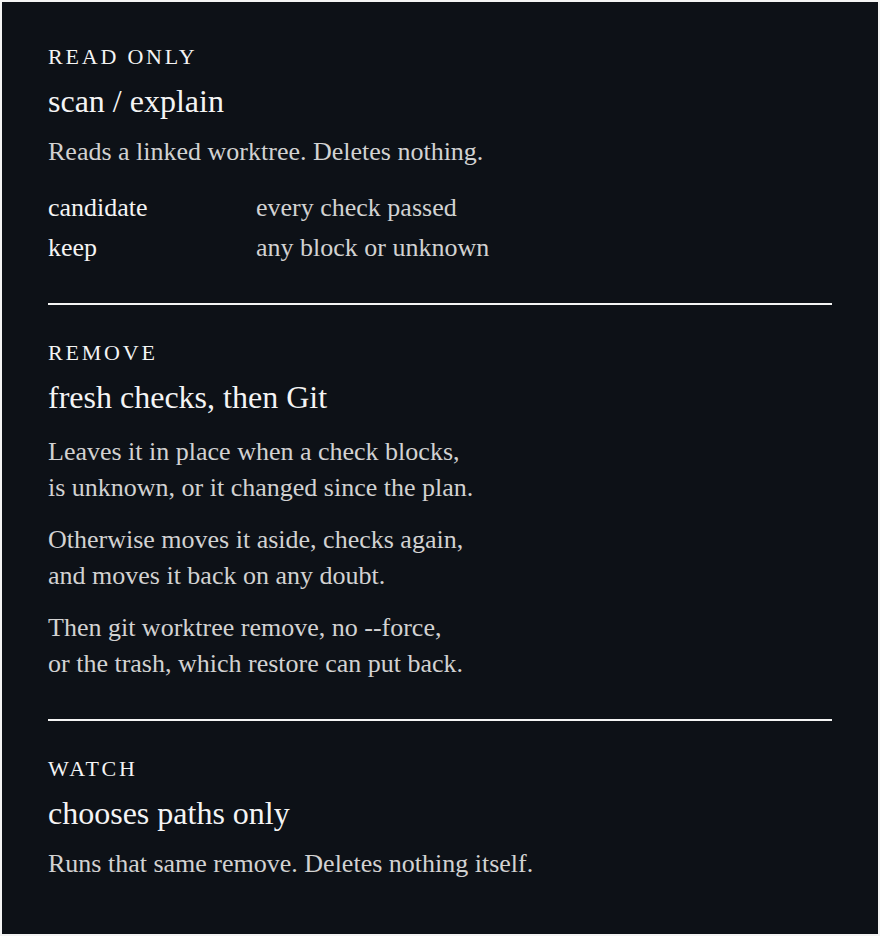
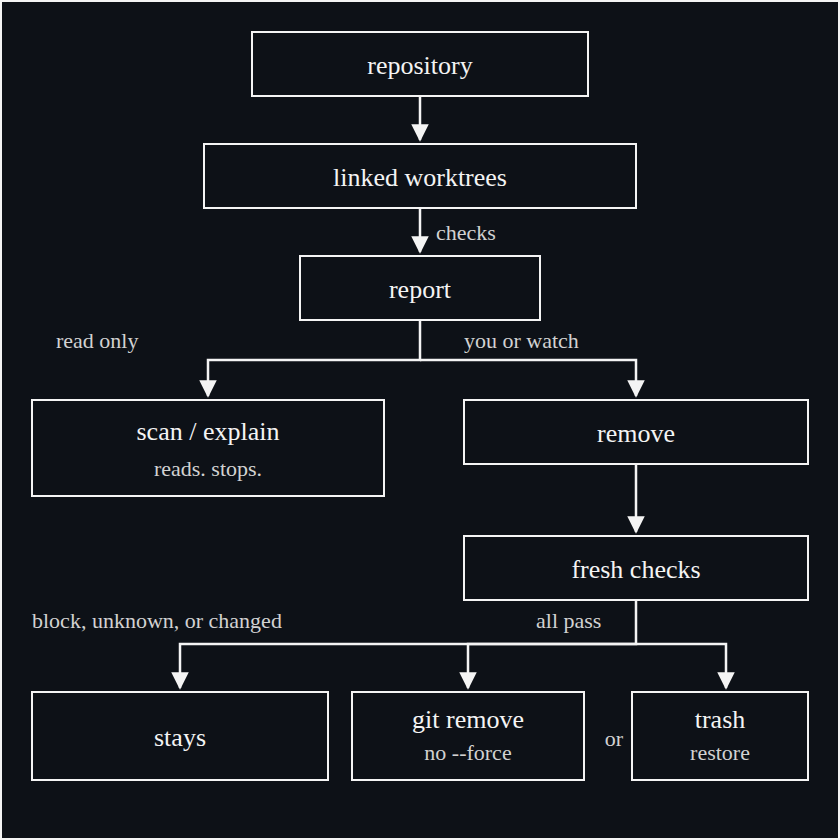
docs: draw how residue works as a concept chart
Replace the text panel with a node-and-arrow chart: inspection ends in a report, scan and explain stop there, and remove is a separate step with a stay branch and a Git-or-trash branch.

diff --git a/README.md b/README.md
@@ -9,10 +9,10 @@
 
 <picture>
   <source media="(prefers-color-scheme: dark)" srcset="docs/assets/how-it-works-dark.png">
-  <img src="docs/assets/how-it-works.png" width="440" alt="How residue works. scan and explain only read a linked worktree and delete nothing. A candidate requires every check to pass. Any block or any unknown keeps the worktree. remove runs the checks again and leaves the worktree in place when a check blocks, is unknown, or it changed since the plan. Otherwise residue moves it aside, checks the new path, and moves it back on any doubt. Only then does git worktree remove delete it, without --force, or the trash holds it for residue restore. watch does not delete on its own. It chooses paths and runs that same remove.">
+  <img src="docs/assets/how-it-works.png" width="420" alt="Chart. A repository leads to its linked worktrees, then checks, then a report. Read only ends at scan and explain, which read and stop. A separate arrow, you or watch, enters remove, then fresh checks. Block, unknown, or changed leads to stays. All pass leads to git remove without --force, or to the trash for restore. Scan does not lead to deletion.">
 </picture>
 
-`scan` and `explain` only read. A worktree is a candidate only when every check passes; any block or any unknown keeps it. `remove` runs the checks again and leaves the worktree in place when a check blocks, is unknown, or it changed since the plan. Otherwise residue moves it aside, checks the new path, and moves it back on any doubt. Only then does `git worktree remove` delete it, without `--force`, or the trash holds it for `residue restore`. `watch` does not delete on its own: it chooses paths and runs that same `remove`. Age alone does not make a worktree inactive.
+A repository's linked worktrees are checked, then reported. `scan` and `explain` only read that report and stop. `remove` is separate: you run it, or `watch` chooses paths for it. Fresh checks leave the worktree in place on a block, an unknown, or a change. When every check passes, `git worktree remove` deletes it without `--force`, or the trash holds it for `restore`. A pass is not a guarantee, and age alone does not mean inactive.
 
 Coding agents leave Git worktrees behind. Each one is a full checkout with its own `node_modules`, `target` and build output, and a machine that runs agents all day fills its disk with them. residue finds those worktrees, measures them, and removes one only when nothing in it would be lost.
 
